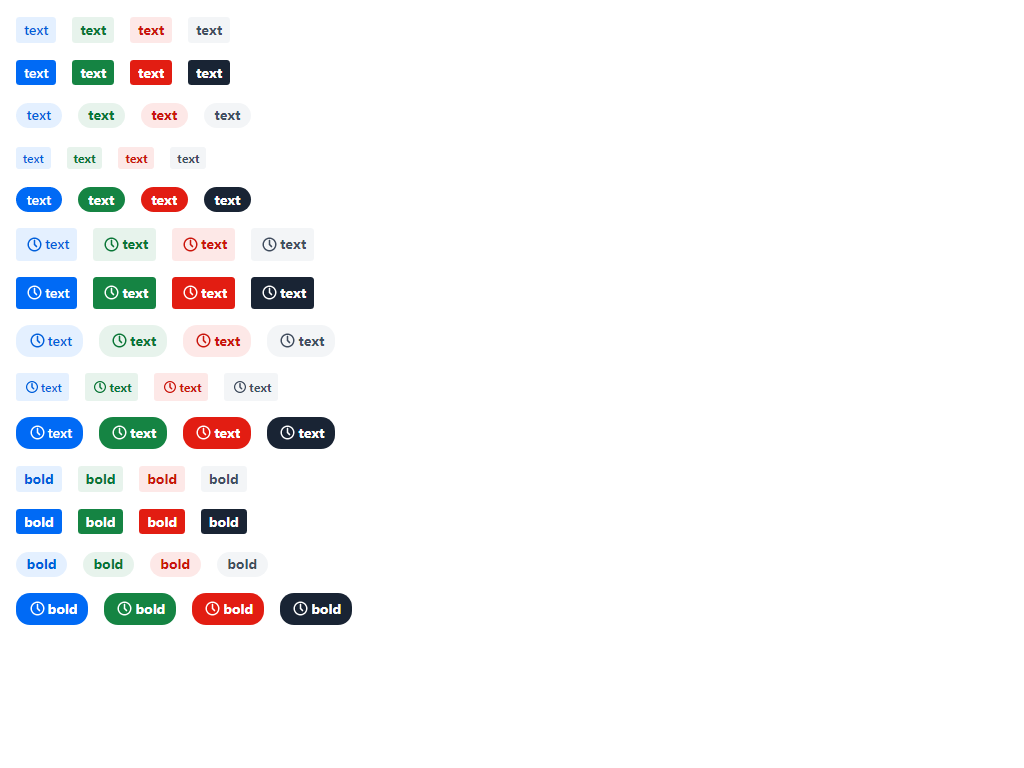
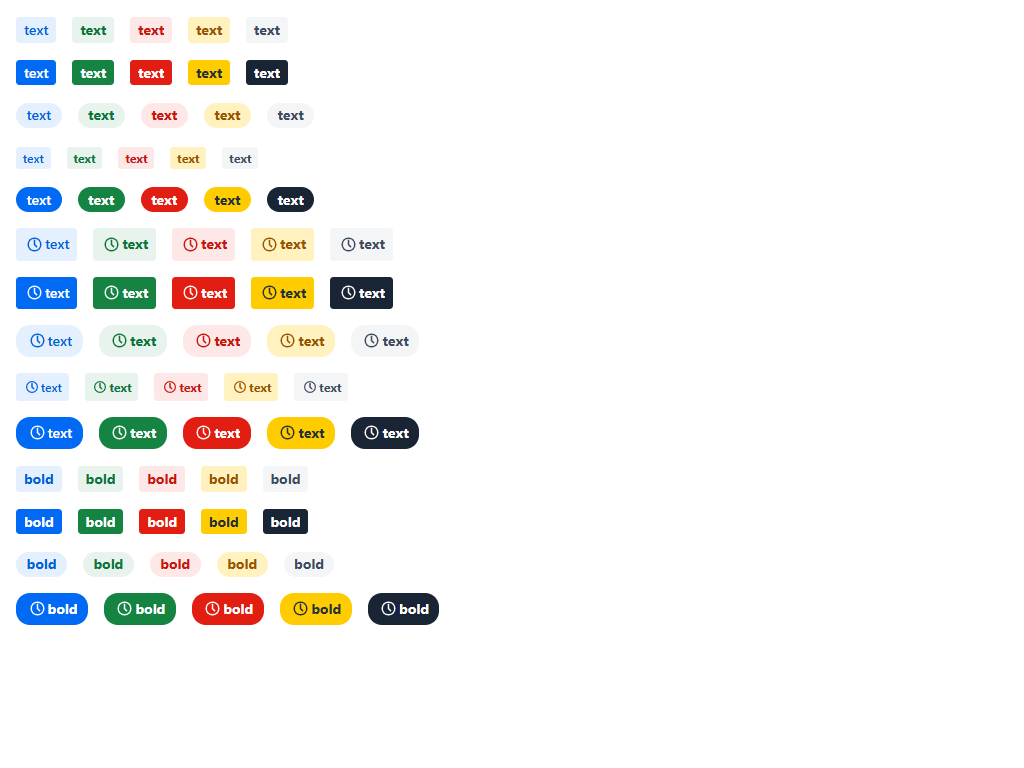
Fix tests

Changed region(s): [[0.1562, 0.0, 0.4062, 0.5938], [0.1875, 0.5938, 0.4375, 0.8125], [0.2812, 0.125, 0.3125, 0.1562]]

diff --git a/src/test/java/org/vaadin/addons/badge/BadgeIT.java b/src/test/java/org/vaadin/addons/badge/BadgeIT.java
@@ -31,29 +31,29 @@ public class BadgeIT extends AbstractViewTest {
         BadgeElement badge = $(BadgeElement.class).first();
         SpanElement internalSpan = badge.$(SpanElement.class).first();
         Assert.assertEquals("text",internalSpan.getText());
-        Assert.assertTrue(internalSpan.getAttribute("theme").contains("badge"));
+        Assert.assertTrue(internalSpan.getDomAttribute("theme").contains("badge"));
         badge = $(BadgeElement.class).all().get(1);
         internalSpan = badge.$(SpanElement.class).first();
-        Assert.assertTrue(internalSpan.getAttribute("theme").contains("success"));
+        Assert.assertTrue(internalSpan.getDomAttribute("theme").contains("success"));
         badge = $(BadgeElement.class).all().get(2);
         internalSpan = badge.$(SpanElement.class).first();
-        Assert.assertTrue(internalSpan.getAttribute("theme").contains("error"));
-        badge = $(BadgeElement.class).all().get(3);
-        internalSpan = badge.$(SpanElement.class).first();
-        Assert.assertTrue(internalSpan.getAttribute("theme").contains("contrast"));
+        Assert.assertTrue(internalSpan.getDomAttribute("theme").contains("error"));
         badge = $(BadgeElement.class).all().get(4);
         internalSpan = badge.$(SpanElement.class).first();
-        Assert.assertTrue(internalSpan.getAttribute("theme").contains("primary"));
-        badge = $(BadgeElement.class).all().get(8);
+        Assert.assertTrue(internalSpan.getDomAttribute("theme").contains("contrast"));
+        badge = $(BadgeElement.class).all().get(5);
         internalSpan = badge.$(SpanElement.class).first();
-        Assert.assertTrue(internalSpan.getAttribute("theme").contains("pill"));
-        badge = $(BadgeElement.class).all().get(12);
+        Assert.assertTrue(internalSpan.getDomAttribute("theme").contains("primary"));
+        badge = $(BadgeElement.class).all().get(10);
         internalSpan = badge.$(SpanElement.class).first();
-        Assert.assertTrue(internalSpan.getAttribute("theme").contains("small"));
-        badge = $(BadgeElement.class).all().get(20);
+        Assert.assertTrue(internalSpan.getDomAttribute("theme").contains("pill"));
+        badge = $(BadgeElement.class).all().get(15);
+        internalSpan = badge.$(SpanElement.class).first();
+        Assert.assertTrue(internalSpan.getDomAttribute("theme").contains("small"));
+        badge = $(BadgeElement.class).all().get(25);
         TestBenchElement icon = badge.$("vaadin-icon").first();
-        Assert.assertEquals("lumo:clock",icon.getAttribute("icon"));
-        badge = $(BadgeElement.class).all().get(40);
+        Assert.assertEquals("lumo:clock",icon.getDomAttribute("icon"));
+        badge = $(BadgeElement.class).all().get(55);
         DivElement htmlDiv = badge.$(DivElement.class).first();
         Assert.assertEquals("bold",htmlDiv.getText());
         Assert.assertEquals("700",htmlDiv.getCssValue("font-weight"));
@@ -64,9 +64,11 @@ public class BadgeIT extends AbstractViewTest {
         BadgeElement badge = $(BadgeElement.class).first();
         Actions action = new Actions(getDriver());
         action.moveToElement(badge).perform();
-        TestBenchElement tooltip = $("vaadin-tooltip-overlay").first();
+        TestBenchElement tooltip = badge.$("vaadin-tooltip").first();
+        waitUntil(driver -> tooltip.getDomAttribute("opened") != null);
+        Assert.assertNotNull(tooltip.getDomAttribute("opened"));
         Assert.assertEquals("Correct tooltip was not found",
-                "normal text", tooltip.getText());
+                "normal  text", tooltip.getText());
     }
 
     @Test
